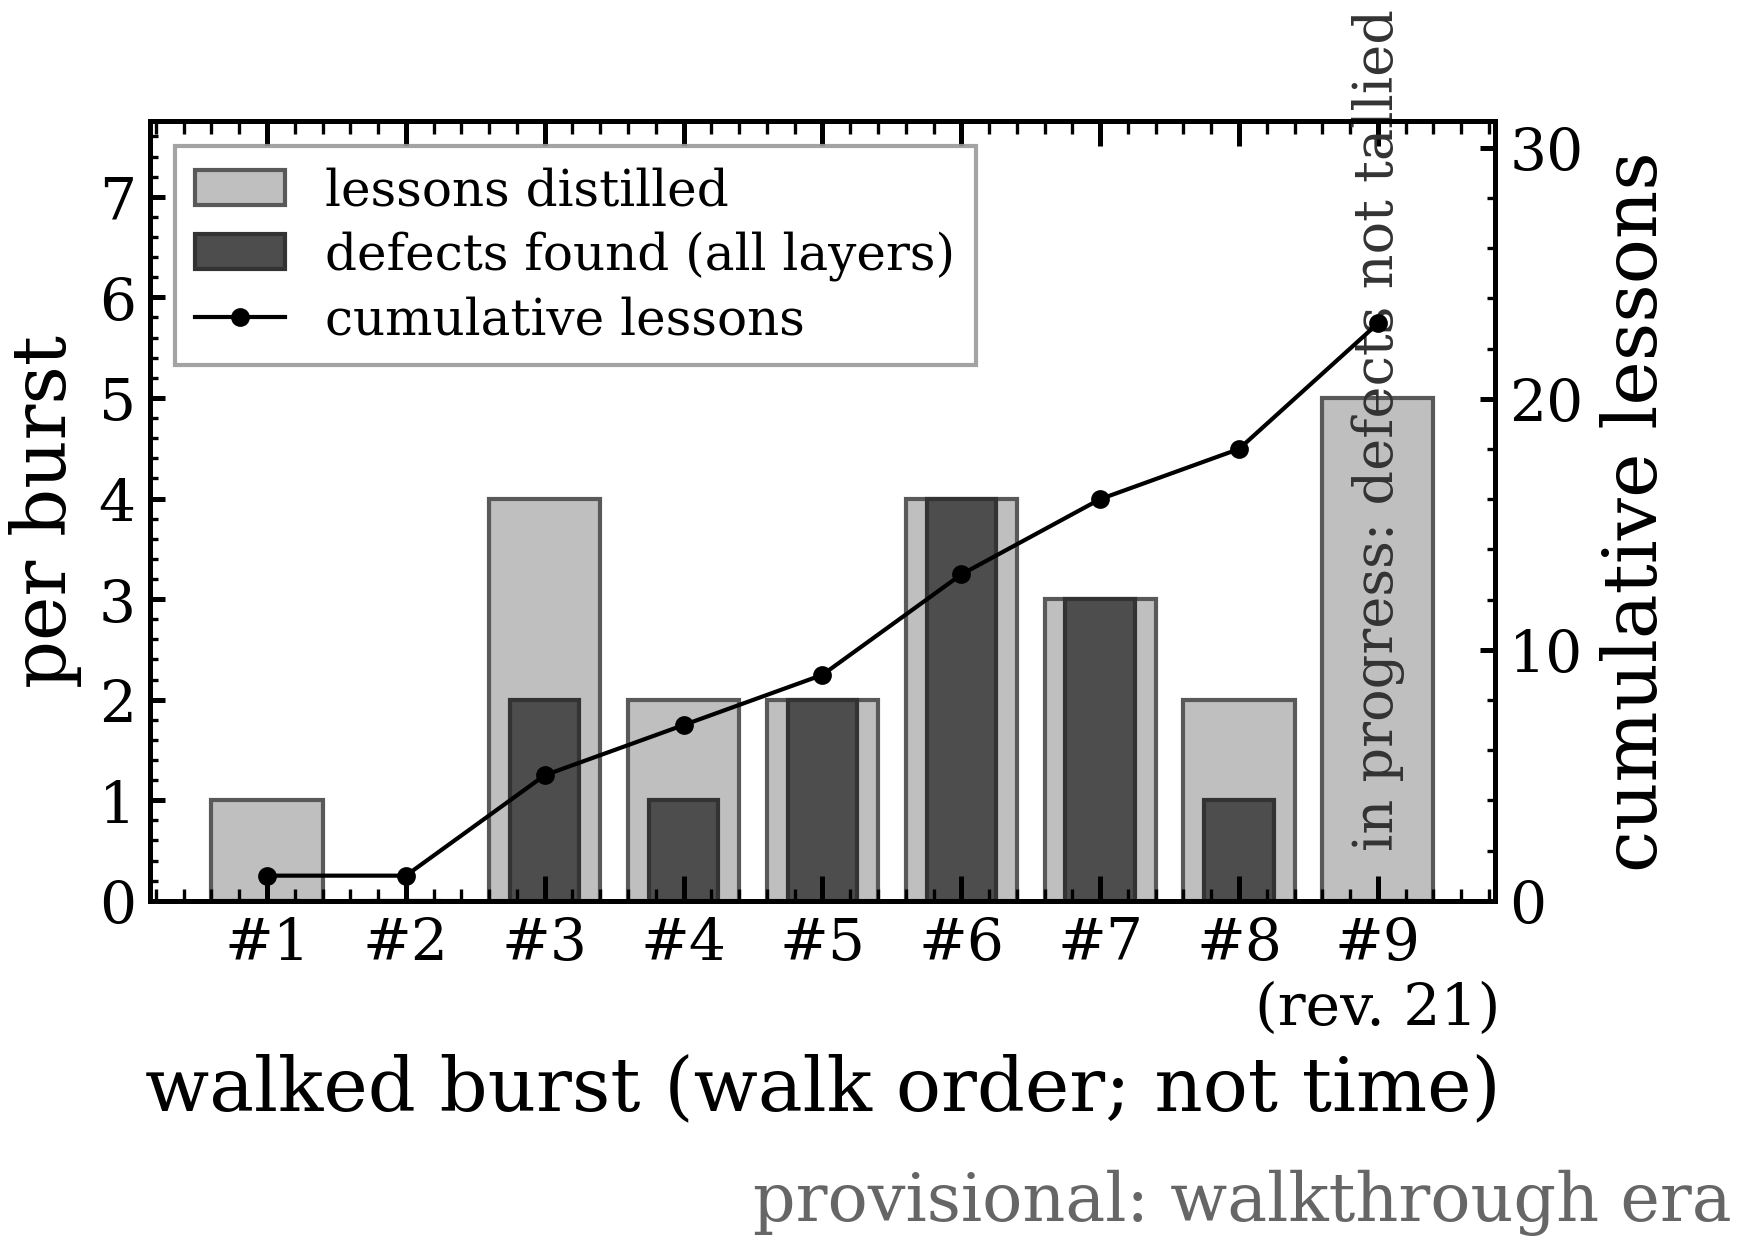
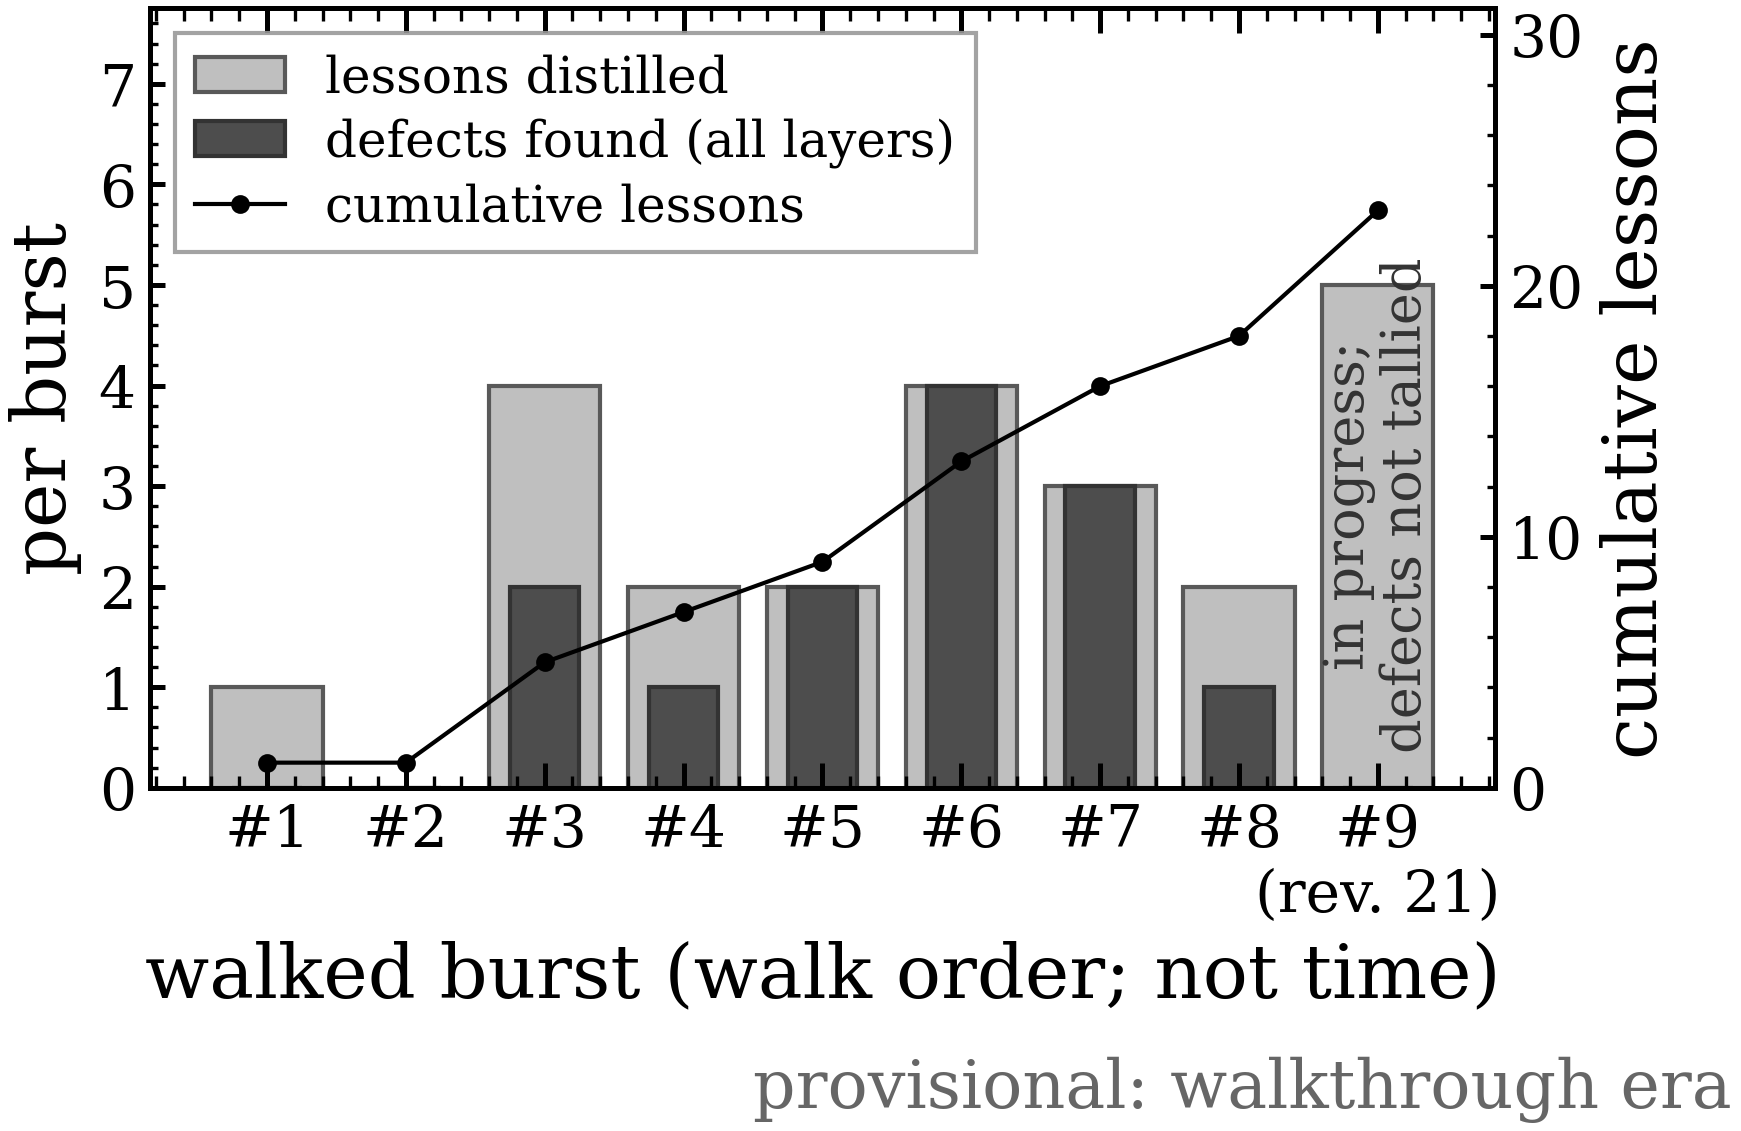
F7 r4 final render: the disclosure as two rotated lines inside the bar (fits within the bar, clear of the tick band and the cumulative line)
Claude-Session: https://claude.ai/code/session_014ZKU13JNR6E9CyYseiK5df

diff --git a/dev/build_learning_curve.py b/dev/build_learning_curve.py
@@ -121,8 +121,8 @@ def main():
     ax.bar(xs, [r['defects'] or 0 for r in rows], color='0.3', edgecolor='0.2', width=0.5, label='defects found (all layers)')
     for x, r in zip(xs, rows):
         if r['defects'] is None:
-            ax.text(x, 0.5, 'in progress: defects not tallied', rotation=90, ha='center', va='bottom',
-                    color='0.2', fontsize=PUB['tick_size'] - 1)
+            ax.text(x, 0.35, 'in progress;\ndefects not tallied', rotation=90, ha='center', va='bottom',
+                    color='0.2', fontsize=PUB['tick_size'] - 1, linespacing=1.1)
     ax2 = ax.twinx()
     ax2.plot(xs, cum, color='k', marker='o', ms=PUB['ms_data'] - 1.5, lw=PUB['lw_secondary'], label='cumulative lessons')
     ax.set_xticks(xs)

diff --git a/paper_agentic/figures/GATE_LEDGER.md b/paper_agentic/figures/GATE_LEDGER.md
@@ -1,6 +1,6 @@
 # Paper v3 diagram gate ledger — TRACKED COPY
 
-Copied from `results/campaign/agentfigs/VISION_QC.md` (gitignored under results/*) at 2026-09-03T22:13:25Z, so the approval record of the manuscript's diagrams is commit-recoverable (Codex supervisor review D4, 2026-09-02). The results/ file remains the ledger the no-ship hook reads; this copy is refreshed by the building session whenever a diagram row changes.
+Copied from `results/campaign/agentfigs/VISION_QC.md` (gitignored under results/*) at 2026-09-03T22:14:22Z, so the approval record of the manuscript's diagrams is commit-recoverable (Codex supervisor review D4, 2026-09-02). The results/ file remains the ledger the no-ship hook reads; this copy is refreshed by the building session whenever a diagram row changes.
 
 ## Paper v3 diagrams — gate ledger appended 2026-09-03T03:32:12Z by the building session (verdicts by fresh-context figure-verifier agents; producer = building session)
 
@@ -91,4 +91,4 @@ Colour amendment addendum (F4/F8 precedent, recorded 2026-09-03): GREY fill (bla
 | F8 | r2 verdict | — | — | PASS-WITH-NITS — H1/H2/H3 closed and independently falsified (0 stroke points inside any box; label 3.98 mm printed from the record box; no consumer of the battery's exit code anywhere on disk, so "nothing yet consumes it" is true); counts 134 and 25 re-derived; nits: 0.55 mm printed label-to-legend gap against the 2.5 mm rule used on F4, coupling label wrapped to six lines with 35 pt unused beside it, an arrowhead reading as flow where inhibition was meant, "over the real products" overstated (>=77 of the 134 open no product), "25" unscoped, grey undeclared in the amendment, tex sha not bound in the ledger |
[1 lines of base64/hex data omitted]
 | F7 | r3 verdict | — | — | FAIL — numbers re-verified exact (nine bars, cumulative 23, the five walkthrough lessons, L6b real and immaterial to any bar, the nine review indices); H1 fixed; NEW H4: the moved "in progress" note sat on the rising cumulative line (1 px separation); H2 only partial (tick tip 0.42 pt from the "d"); H3 improved 4.2 -> 6.93 pt, still under a 7 pt floor |
[2 lines of base64/hex data omitted]
